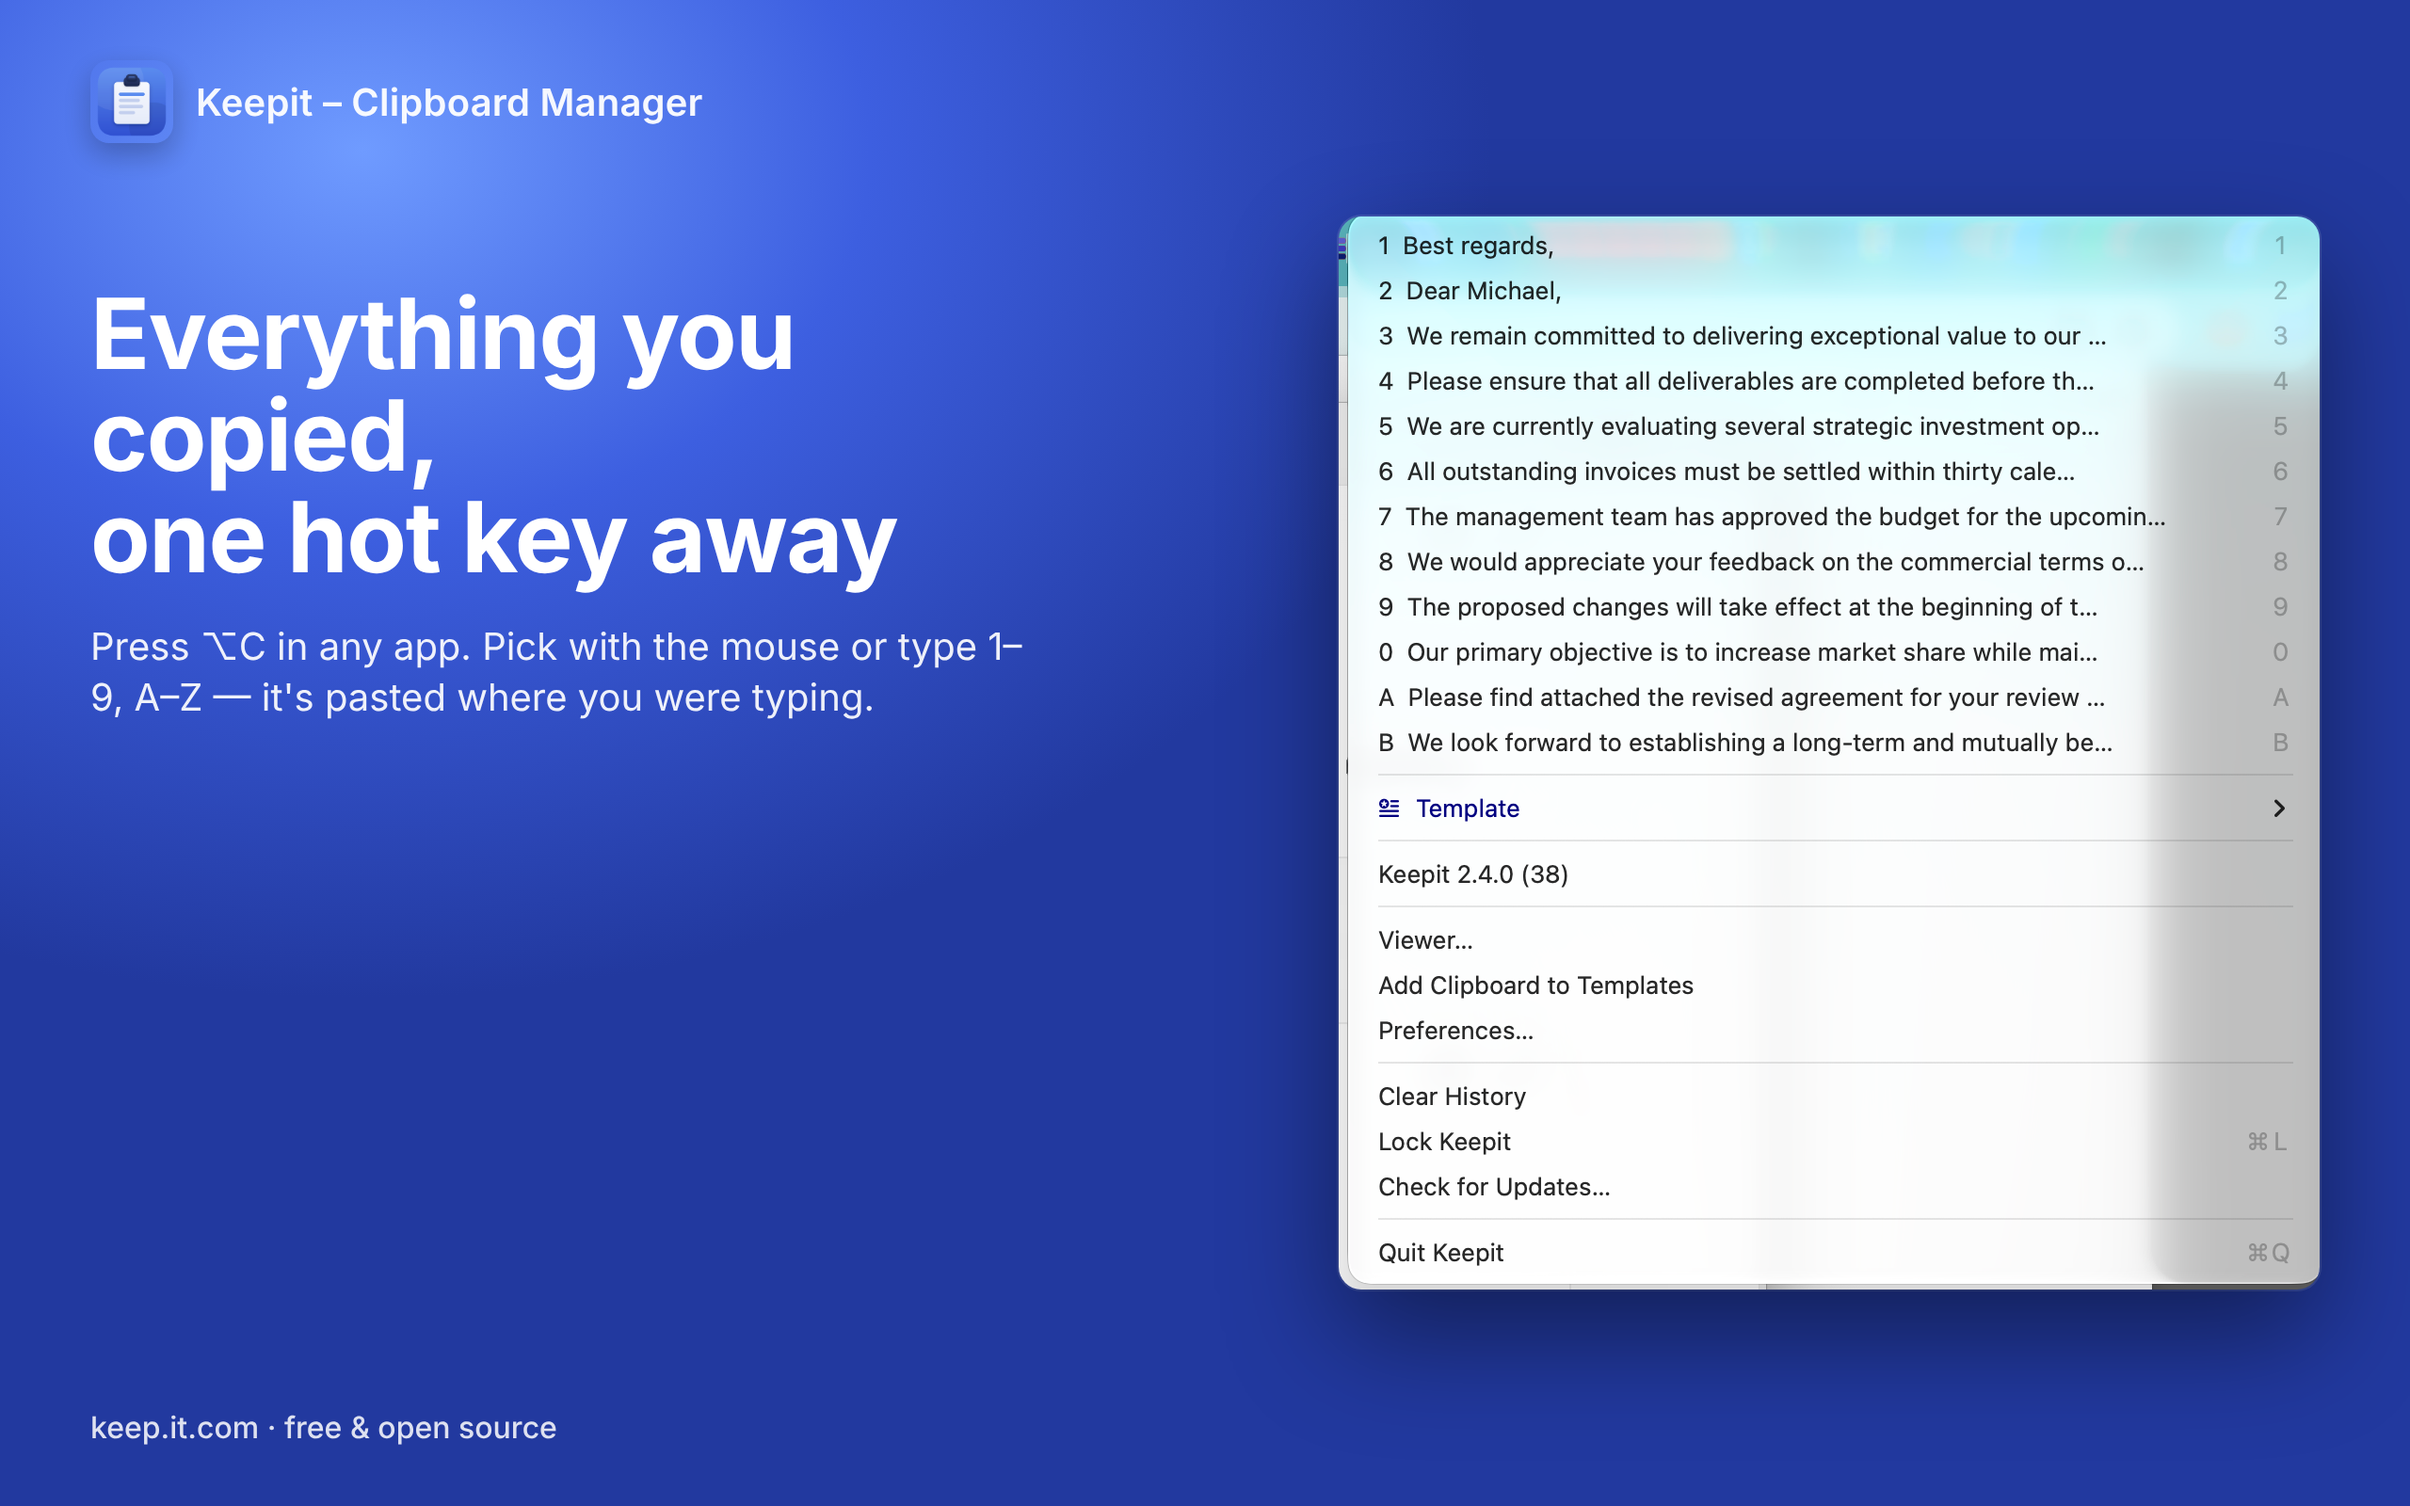
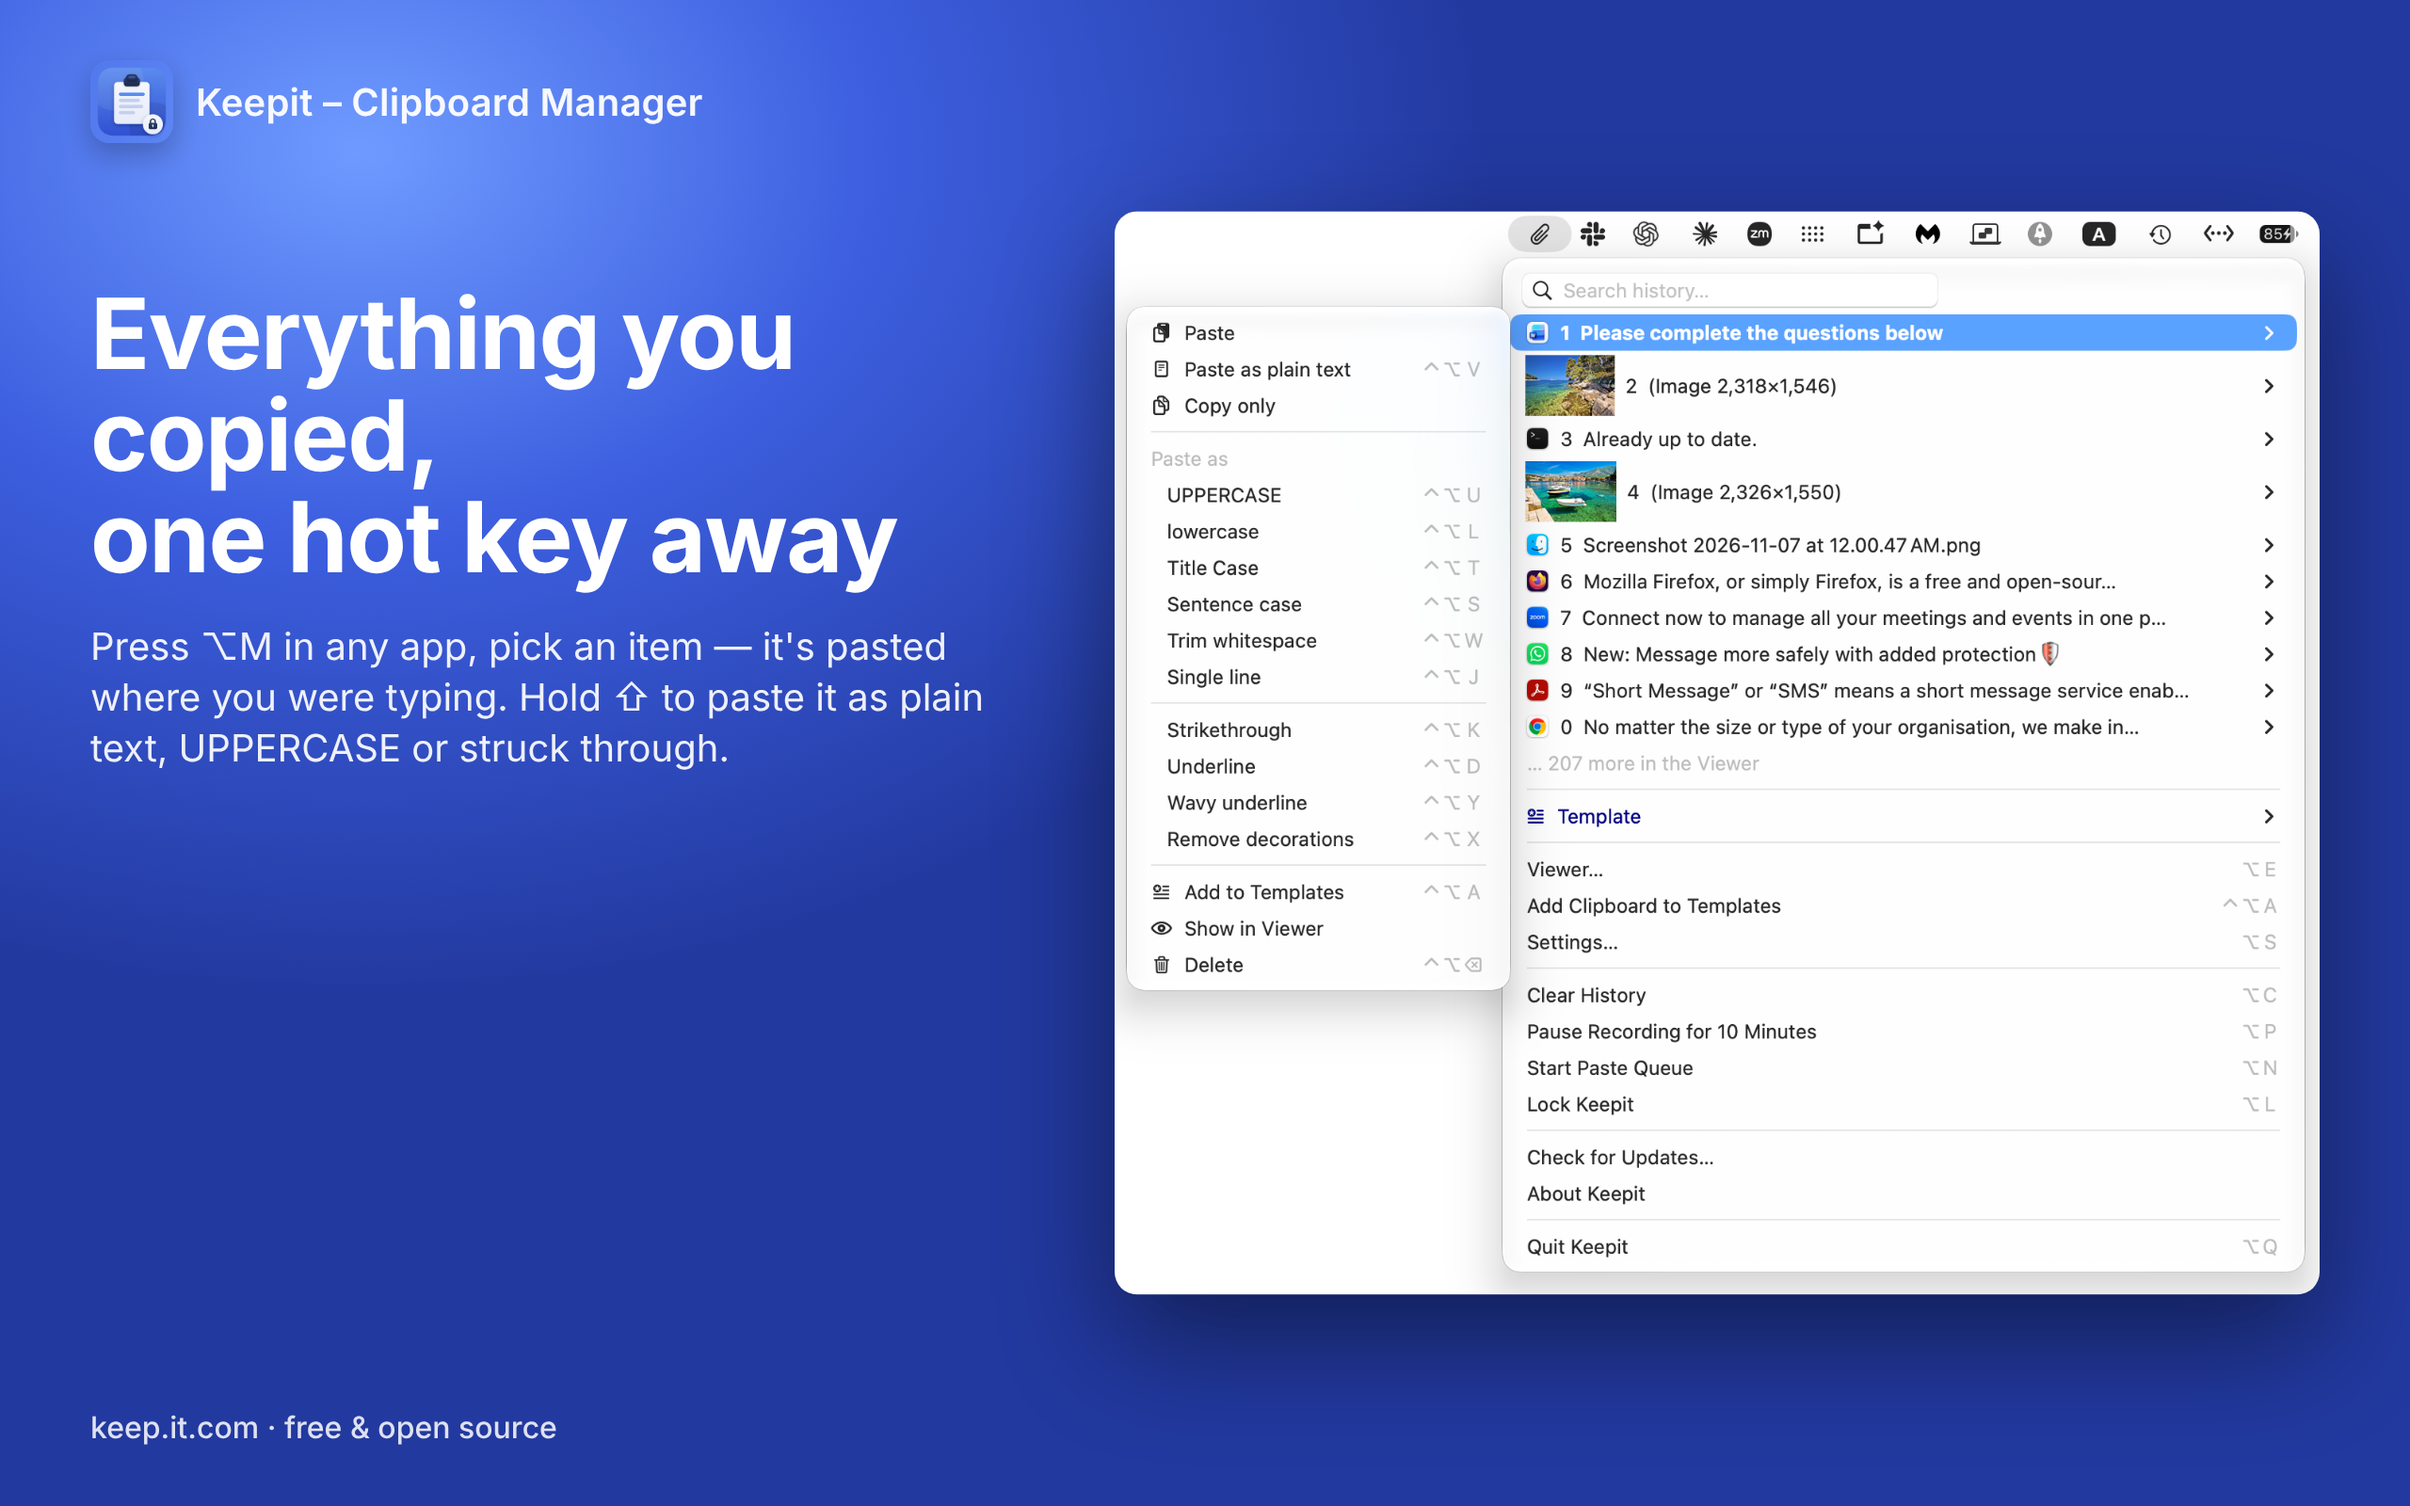
App Store screenshots and listing for 3.0.5
Menu shot shows Paste as with the decorations, the Security shot the
Auto-lock Keepit delay; captions say ⌥M (not ⌥C) and "locks itself when
you step away" (the lock is a delay since 3.0.4). The window is cut on
its own edge with rounded alpha; compose.py uses drop-shadow so the
shadow follows the shape. Description mentions struck-through and
underlined paste.

Claude-Session: https://claude.ai/code/session_018CvCqwF7uiVEXLm1xLVCCU

Changed region(s): [[0.4375, 0.125, 0.9688, 0.9062], [0.0312, 0.4062, 0.4062, 0.5]]

diff --git a/docs/appstore/compose.py b/docs/appstore/compose.py
@@ -7,9 +7,9 @@ from playwright.async_api import async_playwright
 HERE = pathlib.Path(__file__).parent
 SHOTS = [
     # (file, headline, subline, layout: "right" = text left + image right, "top" = text above image)
-    ("menu", "Everything you copied,\none hot key away", "Press ⌥C in any app. Pick with the mouse or type 1–9, A–Z — it's pasted where you were typing.", "right"),
+    ("menu", "Everything you copied,\none hot key away", "Press ⌥M in any app, pick an item — it's pasted where you were typing. Hold ⇧ to paste it as plain text, UPPERCASE or struck through.", "right"),
     ("viewer", "Browse, edit, organize", "History and templates in one tree — edit text in place, inspect every clipboard format, drag items into templates.", "top"),
-    ("preferences", "Private by design", "Password-protected, AES-256 encrypted, unlocked with Touch ID. Locks when the screen does. Password managers are never recorded.", "right"),
+    ("preferences", "Private by design", "Password-protected, AES-256 encrypted, unlocked with Touch ID. Locks itself when you step away. Password managers are never recorded.", "right"),
 ]
 
 CSS = """
@@ -20,7 +20,7 @@ body { width: 2560px; height: 1600px; overflow: hidden; font-family: -apple-syst
 .badge img { width: 88px; height: 88px; border-radius: 20px; box-shadow: 0 12px 30px rgba(0,0,0,.25); }
 h1 { font-size: 104px; line-height: 1.04; font-weight: 700; letter-spacing: -1.5px; white-space: pre-line; }
 p  { font-size: 40px; line-height: 1.35; font-weight: 400; opacity: .92; margin-top: 36px; }
-.shot { position: absolute; border-radius: 24px; box-shadow: 0 50px 120px rgba(0,0,0,.45), 0 0 0 2px rgba(255,255,255,.12); }
+.shot { position: absolute; border-radius: 24px; filter: drop-shadow(0 50px 60px rgba(0,0,0,.45)); }
 .right .text { position: absolute; left: 96px; top: 300px; width: 1000px; }
 .right .shot { right: 96px; top: 50%; transform: translateY(-50%); max-width: 1280px; max-height: 1380px; }
 .top .text { position: absolute; left: 96px; top: 200px; width: 2368px; }

diff --git a/docs/appstore/listing.md b/docs/appstore/listing.md
@@ -21,7 +21,7 @@ Keepit keeps a history of everything you copy and pastes any of it back with a s
 PASTE ANYTHING YOU COPIED
 • Press ⌥M anywhere: a menu with your recent clips opens right at the text cursor.
 • Type to search, pick with the mouse, or press 1–9 / A–Z — the item is pasted into the app you're working in.
-• Hover an item for a preview panel; hold ⇧ for an extended menu: paste as plain text, UPPERCASE, Title Case, single line, add to templates, delete.
+• Hover an item for a preview panel; hold ⇧ for an extended menu: paste as plain text, UPPERCASE, Title Case, single line, struck through or underlined, add to templates, delete.
 • Text, rich text, images (with thumbnails) and files are all kept. Duplicates are merged; recent items stay on top.
 • ⌃⌥1–0 paste items 1–10 without opening the menu.
 

diff --git a/docs/appstore/screenshots.md b/docs/appstore/screenshots.md
@@ -4,7 +4,7 @@ Accepted sizes: 1280×800, 1440×900, 2560×1600, 2880×1800 (16:10). 1–10 ima
 
 Planned set (capture at 2560×1600 on a Retina display, or 1280×800 logical):
 
-1. Popup history menu over a text editor, caret visible — "Paste anything you copied with ⌥C"
+1. Popup history menu over a text editor, caret visible — "Paste anything you copied with ⌥M"
 2. Template menu with folders and shortcut letters — "Templates with their own hot keys"
 3. Viewer: tree + text being edited — "Browse and edit everything"
 4. Viewer: image item — "Images and files too"
